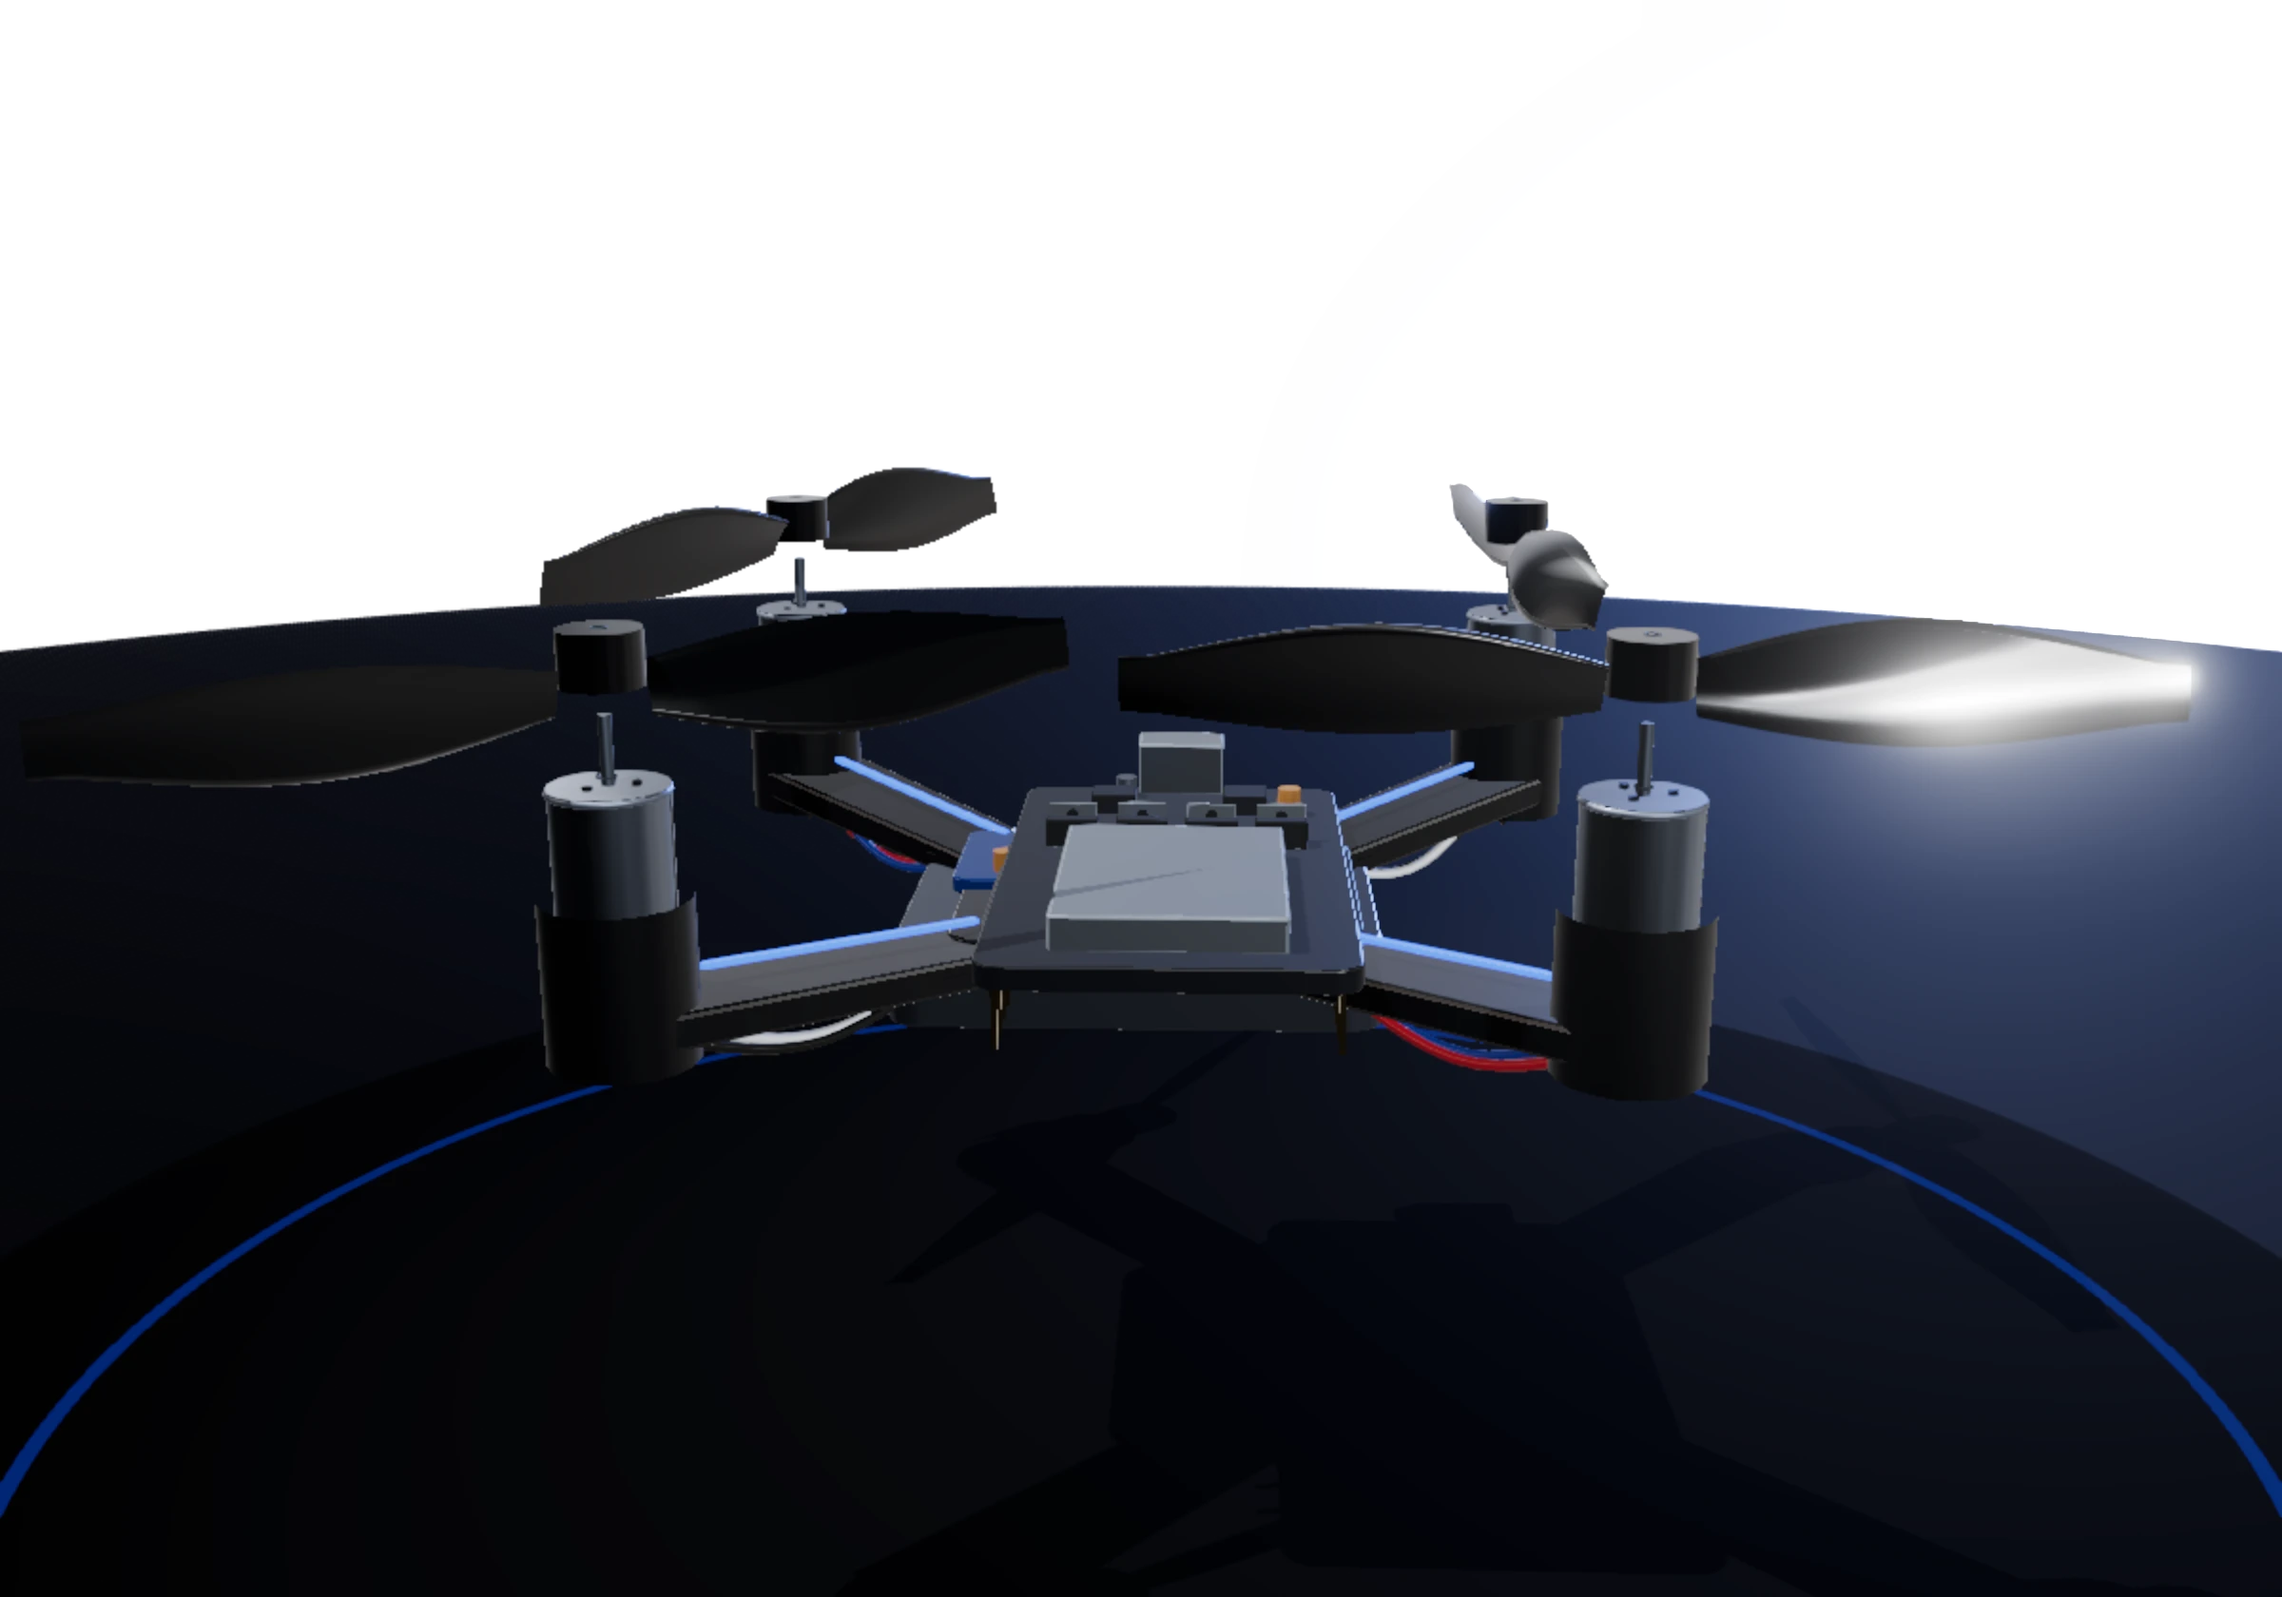
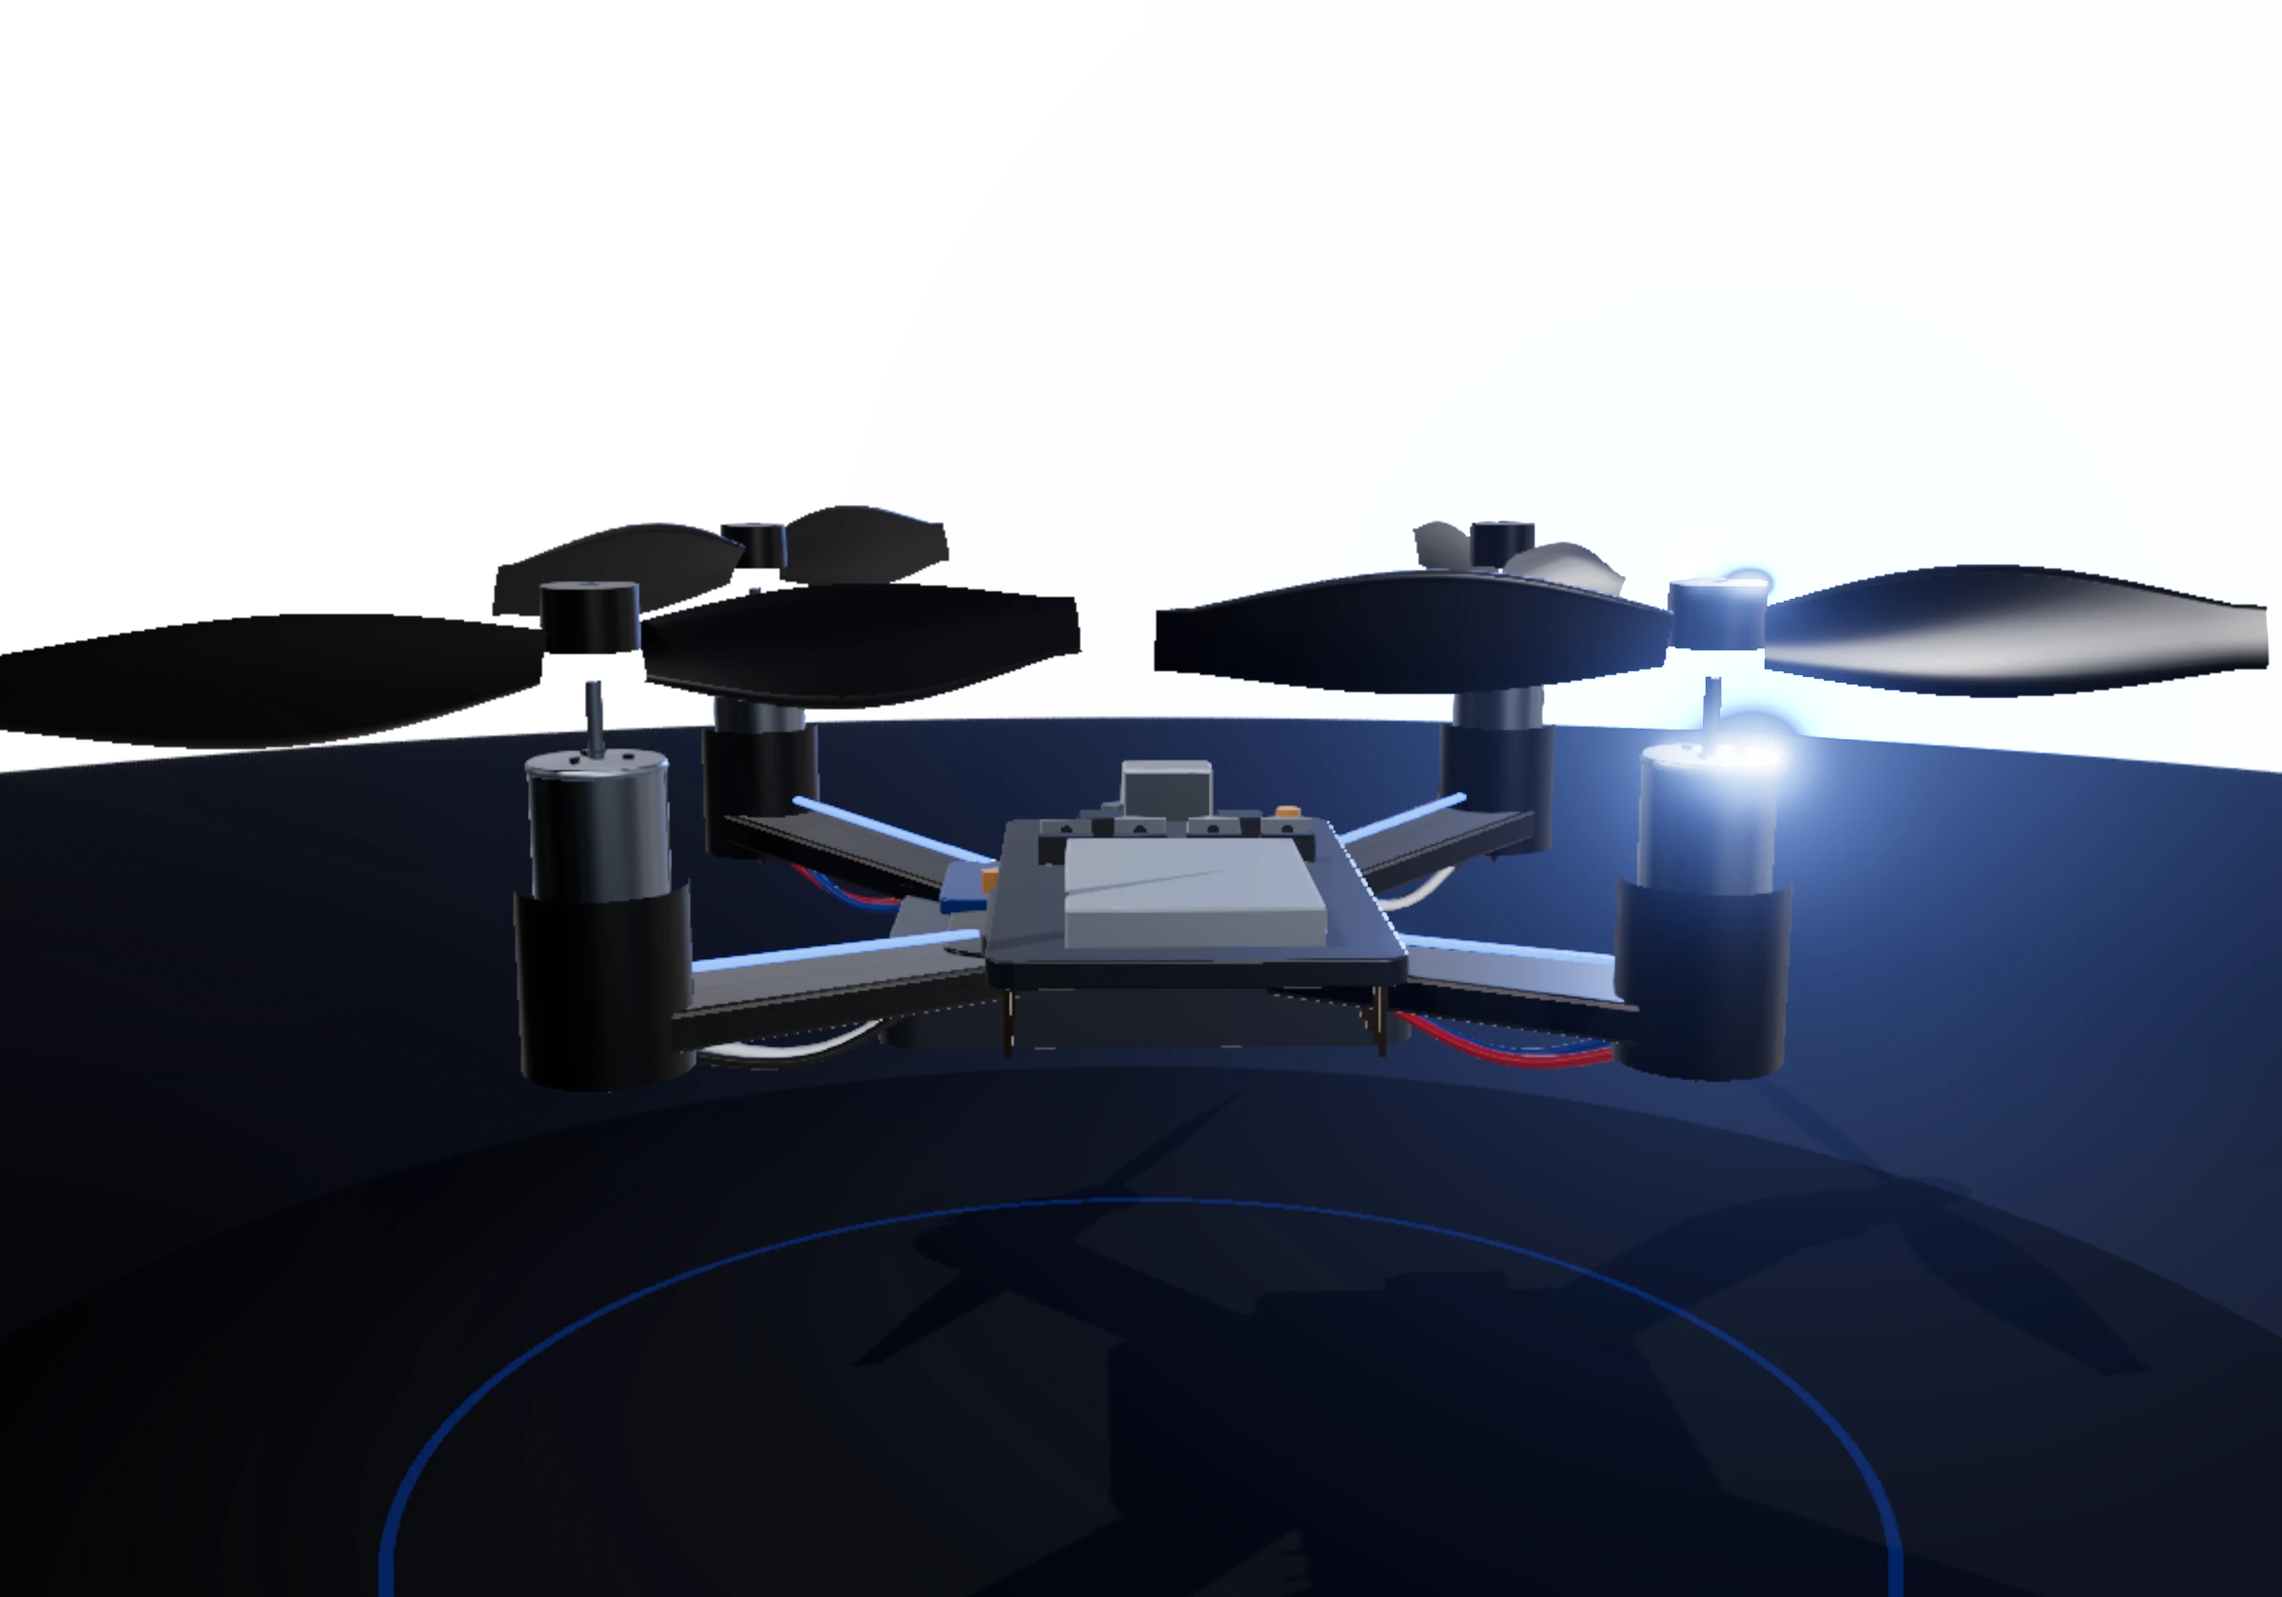
Items 2, 18, 20, 22, 24: correctness, render-on-demand, disposal, assets
2.  makeDynamicWire's heat-shrink sleeve called lookAt(to) with a target in the
    parent's local space, but Object3D.lookAt resolves in world space, so it
    was aiming at the wrong point. Now orients from the segment direction via
    setFromUnitVectors, which is independent of parenting. Unused `sag`
    parameter dropped, and allTextures is now returned rather than collected
    and forgotten.

18. Render-on-demand. Deleting the prop spin removed the blocker: nothing
    animates continuously any more except environment rotation. The loop now
    renders only when something asks - scroll change, pointer move, resize,
    HDRI arrival - or while scroll, parallax or prop angle are still settling.
    Verified the wake path fires on an explicit change. True idle framerate is
    not measurable in this environment because rAF is throttled here anyway.

20. Fallback and OG images re-captured from the finished model, after the
    framing, propeller and material changes, so they no longer show the old
    geometry. Fallback keeps canvas alpha to composite onto the page; OG is
    rendered opaque at 1200x630.

22. dispose() now traverses the scene disposing geometries, every texture
    referenced by every material, the returned texture list, the environment
    and the PMREM generator, rather than only the renderer and composer.

24. .claude/launch.example.json committed so a fresh clone can preview without
    reconstructing it.
[…]

diff --git a/src/scene.js b/src/scene.js
@@ -101,6 +101,7 @@ export function initScene() {
       scene.environment = pmrem.fromEquirectangular(hdri).texture;
       prev?.dispose();
       hdri.dispose();
+      invalidate();
       sceneReady();
     },
     undefined,
@@ -193,7 +194,7 @@ export function initScene() {
   ring.position.y = -45.4;
   scene.add(ring);
 
-  const { group: drone, parts, dynamicWires, stageCount } = createDrone(
+  const { group: drone, parts, dynamicWires, textures, stageCount } = createDrone(
     renderer.capabilities.getMaxAnisotropy()
   );
   drone.traverse((obj) => {
@@ -215,7 +216,10 @@ export function initScene() {
     new THREE.Vector2(window.innerWidth, window.innerHeight),
     0.35, // strength — only speculars and the emissive trim should cross
     0.6, // radius
-    0.8 // threshold
+    // 0.88, not 0.80: the accent trim sits at ~1.04 luminance and still
+    // crosses, but the motor rim chamfers were sitting just above 0.80 and
+    // blooming into little blue lamps at the shaft tips
+    0.88 // threshold
   );
   composer.addPass(bloom);
   composer.addPass(new SMAAPass());
@@ -230,13 +234,14 @@ export function initScene() {
     composer.setSize(w, h);
     bloom.setSize(w, h);
   }
-  window.addEventListener("resize", resize);
+  window.addEventListener("resize", () => { resize(); invalidate(); });
 
   // Props spin continuously, but only once they've separated from the motors —
   // `spinT` is set by updateScene to how far along that part's explosion is.
   const spinners = parts.filter((p) => p.spin);
   spinners.forEach((p, i) => {
     p.angle = 0;
+    p.lastAngle = 0;
     // a phase offset per prop so the four never sit at identical angles
     p.phase = i * 0.55;
   });
@@ -268,16 +273,40 @@ export function initScene() {
       (e) => {
         pointer.x = e.clientX / window.innerWidth - 0.5;
         pointer.y = e.clientY / window.innerHeight - 0.5;
+      invalidate();
       },
       { passive: true }
     );
   }
+
+  // --- render on demand -------------------------------------------------
+  // Now that the props no longer turn on their own, nothing animates
+  // continuously except the environment rotation and settling. Anything that
+  // changes the image calls invalidate(); when nothing is settling and the
+  // environment is static, this idles at zero frames instead of burning a
+  // full-rate loop on an unchanging picture.
+  let needsRender = true;
+  const invalidate = () => {
+    needsRender = true;
+  };
+  const envRotates = !reducedMotion && !isMobile;
 
   function render() {
     requestAnimationFrame(render);
     if (!canvasVisible) return;
 
     const dt = Math.min(clock.getDelta(), 0.1);
+
+    const settlingScroll = Math.abs(scrollTarget - scrollCurrent) > 0.0001;
+    const settlingParallax =
+      parallaxEnabled &&
+      (Math.abs(pointer.x - parallax.x) > 0.001 || Math.abs(pointer.y - parallax.y) > 0.001);
+    const settlingProps = spinners.some((p) => Math.abs(p.angle - p.lastAngle) > 0.0005);
+
+    if (!needsRender && !settlingScroll && !settlingParallax && !settlingProps && !envRotates) {
+      return;
+    }
+    needsRender = false;
 
     // ease the scene toward the scroll target rather than snapping to it
     if (!reducedMotion && Math.abs(scrollTarget - scrollCurrent) > 0.0001) {
@@ -305,6 +334,7 @@ export function initScene() {
       // props keep turning a little as they lift away at the end
       const residual = Math.max(0, scrollCurrent - 0.85) * Math.PI * 1.6;
       const target = Math.sign(p.spin) * (scrollCurrent * PROP_SCROLL_K + residual) + p.phase;
+      p.lastAngle = p.angle;
       p.angle += (target - p.angle) * Math.min(1, dt * 3.2);
       p.mesh.rotation.y = p.angle;
     });
@@ -418,6 +448,7 @@ export function initScene() {
     scrub: 0.3,
     onUpdate: (self) => {
       scrollTarget = self.progress;
+      invalidate();
       if (reducedMotion) {
         scrollCurrent = scrollTarget;
         updateScene(scrollCurrent);
@@ -504,5 +535,25 @@ export function initScene() {
 
 
   render();
-  return { dispose: () => { renderer.dispose(); composer.dispose?.(); } };
+  return {
+    dispose() {
+      scene.traverse((o) => {
+        if (!o.isMesh) return;
+        o.geometry?.dispose();
+        const mats = Array.isArray(o.material) ? o.material : [o.material];
+        mats.forEach((m) => {
+          if (!m) return;
+          Object.values(m).forEach((v) => {
+            if (v && v.isTexture) v.dispose();
+          });
+          m.dispose();
+        });
+      });
+      textures.forEach((t) => t.dispose());
+      scene.environment?.dispose();
+      pmrem.dispose();
+      composer.dispose?.();
+      renderer.dispose();
+    },
+  };
 }

diff --git a/src/drone.js b/src/drone.js
@@ -347,13 +347,17 @@ function wireMesh(from, to, color, radius = 0.5, sag = 3, seed = 0) {
     shrinkMaterial()
   );
   sleeve.position.copy(from);
-  sleeve.lookAt(to);
-  sleeve.rotateX(Math.PI / 2);
+  // Object3D.lookAt resolves in world space, but `to` is in the parent's local
+  // space — so the old lookAt(to) was aiming at the wrong point. Orient from
+  // the segment direction instead: same result, and independent of where this
+  // mesh ends up parented.
+  const axis = to.clone().sub(from).normalize();
+  sleeve.quaternion.setFromUnitVectors(new THREE.Vector3(0, 1, 0), axis);
   group.add(sleeve);
   return group;
 }
 
-function makeDynamicWire(color, radius = 0.5, sag = 4) {
+function makeDynamicWire(color, radius = 0.5) {
   const mat = wireMaterial(color);
   const geo = new THREE.TubeGeometry(new THREE.CatmullRomCurve3([new THREE.Vector3(), new THREE.Vector3(0, -1, 0), new THREE.Vector3(0, -2, 0)]), 16, radius, 6, false);
   return new THREE.Mesh(geo, mat);
@@ -395,7 +399,7 @@ export function createDrone(maxAnisotropy = 1) {
       roughness: 0.3,
       envMapIntensity: 1.15,
     }),
-    shaft: new THREE.MeshStandardMaterial({ color: COLOR.shaft, metalness: 1, roughness: 0.4 }),
+    shaft: new THREE.MeshStandardMaterial({ color: COLOR.shaft, metalness: 1, roughness: 0.58, envMapIntensity: 0.5 }),
     // glossy near-black: the highlight sweeping the blade twist is what sells it
     propBlack: new THREE.MeshPhysicalMaterial({
       // moulded plastic that catches a highlight, not polished lacquer. The
@@ -852,7 +856,7 @@ export function createDrone(maxAnisotropy = 1) {
     });
   });
 
-  return { group, parts, dynamicWires, stageCount: 7 };
+  return { group, parts, dynamicWires, textures: allTextures, stageCount: 7 };
 }
 
 export function updateDynamicWires(dynamicWires) {
